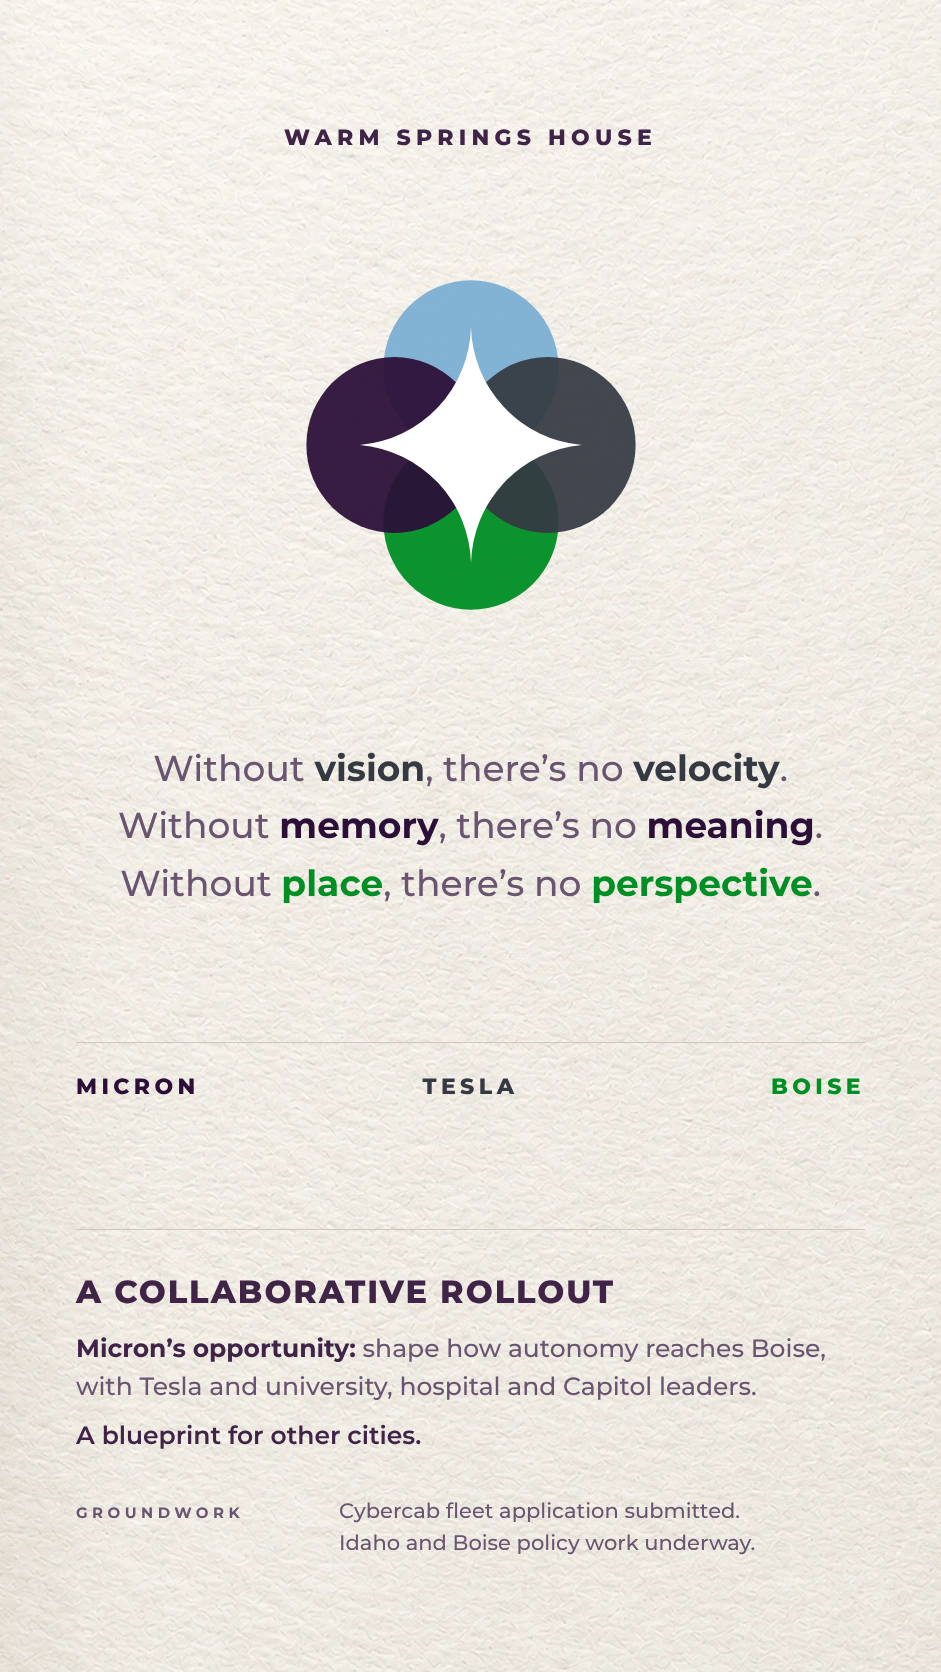
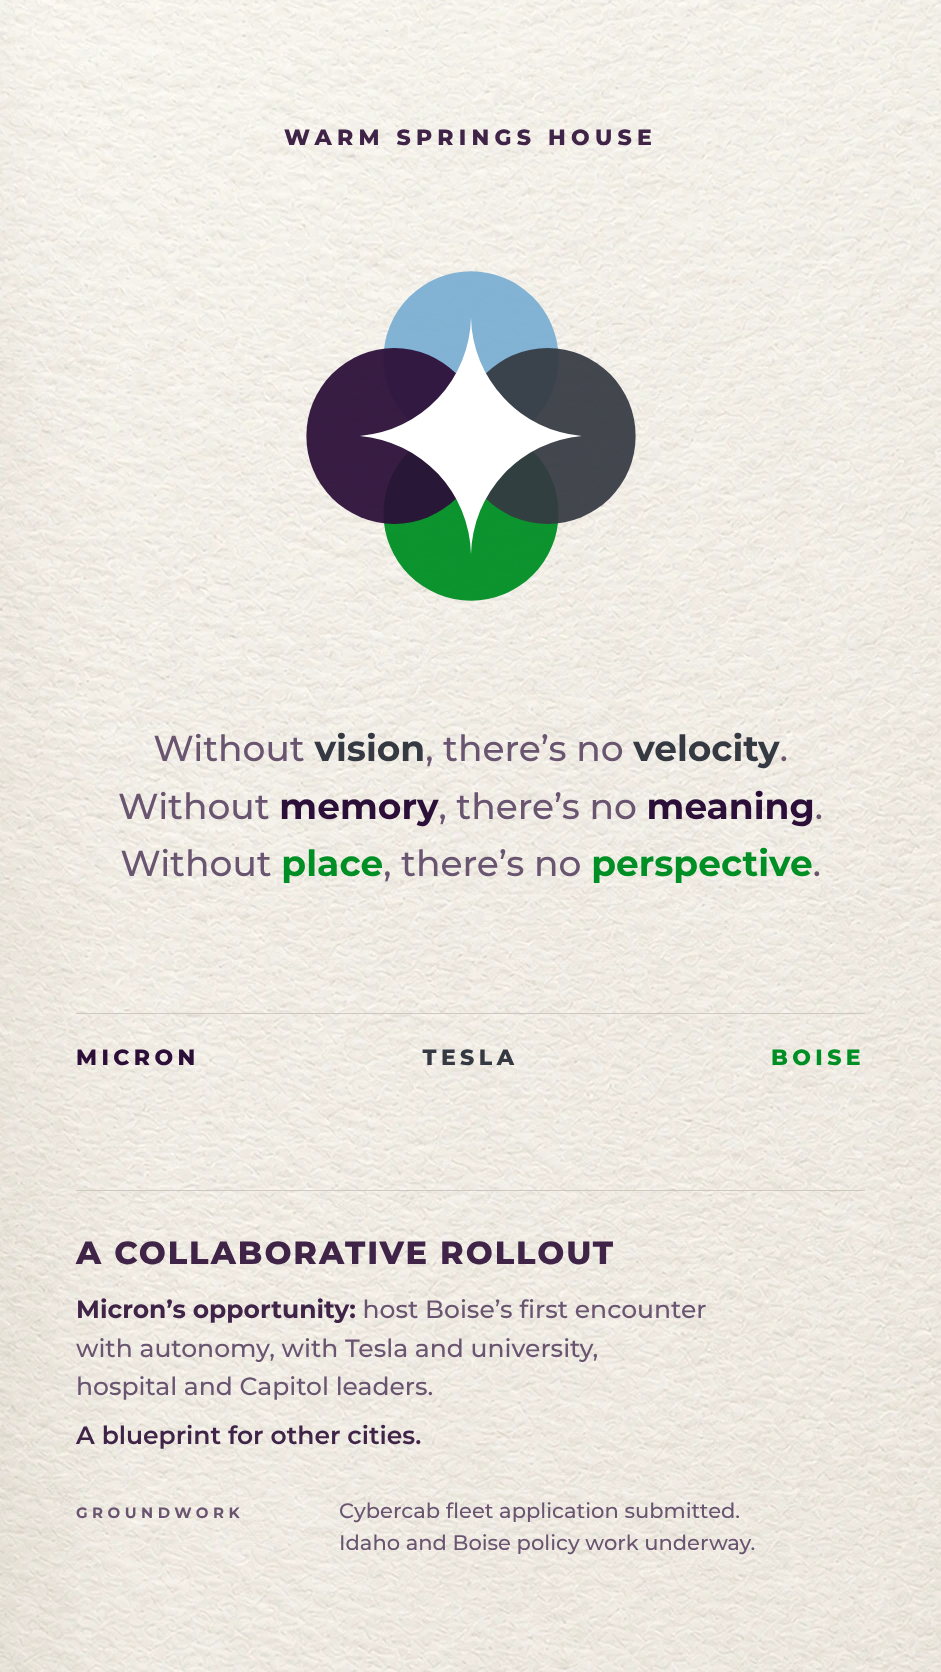
Card 5: "host Boise's first encounter with autonomy"
Replaces "shape how autonomy reaches Boise" in the master copy (Micron and
[COMPANY] sets) and in all Card 5 versions; version B saved as final.

Claude-Session: https://claude.ai/code/session_018mjyHLtRipED1pdLKidqkG

diff --git a/mockups/card5/clean/card5-FINAL.html b/mockups/card5/clean/card5-FINAL.html
@@ -1,0 +1,26 @@
+<!doctype html><html><head><meta charset="utf-8">
+<link href="https://fonts.googleapis.com/css2?family=Montserrat:wght@400;500;600;700;800&display=swap" rel="stylesheet">
+<style>html,body{margin:0;background:#fff}
+.card{position:relative;width:941px;height:1672px;overflow:hidden;background:#f4f3ef url(paper.webp) center/cover no-repeat;font-family:Montserrat,Arial,sans-serif;color:#3f2448}
+.col{position:absolute;left:76px;right:76px;top:124px;bottom:112px;display:flex;flex-direction:column;justify-content:space-between}
+.c{text-align:center}
+.brand{font-size:22px;letter-spacing:.24em;font-weight:800;text-transform:uppercase}
+.st{font-size:36px;line-height:1.6;font-weight:500;color:#6a5571}
+.st b{font-weight:700}
+.pt{font-size:22px;letter-spacing:.2em;font-weight:800;text-transform:uppercase}
+.lab{font-size:15px;letter-spacing:.3em;font-weight:700;text-transform:uppercase;color:#6a5571}
+.h{font-size:32px;line-height:1.15;letter-spacing:.06em;font-weight:800;text-transform:uppercase}
+.p{font-size:25px;line-height:1.55;font-weight:500;color:#6a5571}
+.p b{font-weight:700;color:#3f2448}
+.sm{font-size:21px;line-height:1.55;font-weight:500;color:#6a5571}
+.rule{border-top:1px solid #cfc8be}
+</style></head><body><div class="card"><div class="col"><div class="c brand">Warm Springs House</div>
+<div style="display:flex;justify-content:center"><img src="mark.svg" style="width:330px;height:330px;display:block"></div>
+<div class="c st">Without <b style="color:#353942">vision</b>, there&#8217;s no <b style="color:#353942">velocity</b>.<br>Without <b style="color:#2c0f38">memory</b>, there&#8217;s no <b style="color:#2c0f38">meaning</b>.<br>Without <b style="color:#008f25">place</b>, there&#8217;s no <b style="color:#008f25">perspective</b>.</div>
+<div class="rule" style="padding-top:30px;display:grid;grid-template-columns:1fr 1fr 1fr">
+<div class="pt" style="color:#2c0f38">Micron</div><div class="pt c" style="color:#353942">Tesla</div><div class="pt" style="color:#008f25;text-align:right">Boise</div></div><div class="rule c" style="padding-top:44px">
+<div class="h">A collaborative rollout</div>
+<div class="p" style="margin-top:18px"><b>Micron&#8217;s opportunity:</b> host Boise&#8217;s first encounter<br>with autonomy, with Tesla and university,<br>hospital and Capitol leaders.</div>
+<div class="p" style="margin-top:10px;color:#3f2448;font-weight:600">A blueprint for other cities.</div>
+<div class="lab" style="margin-top:40px">Groundwork</div>
+<div class="sm" style="margin-top:10px">Cybercab fleet application submitted.<br>Idaho and Boise policy work underway.</div></div></div></div></body></html>

diff --git a/mockups/card5/clean/card5-clean-C.html b/mockups/card5/clean/card5-clean-C.html
@@ -21,5 +21,5 @@
 <div class="pt" style="color:#2c0f38">Micron</div><div class="pt c" style="color:#353942">Tesla</div><div class="pt" style="color:#008f25;text-align:right">Boise</div></div><div class="rule" style="padding-top:44px">
 <div class="h">A collaborative rollout</div>
 <div style="margin-top:30px;display:grid;grid-template-columns:1fr 2fr;row-gap:30px;align-items:baseline">
-<div class="lab">Micron&#8217;s<br>opportunity</div><div class="p" style="font-size:24px">Shape how autonomy reaches Boise, with Tesla and university, hospital and Capitol leaders. <span style="color:#3f2448;font-weight:600">A blueprint for other cities.</span></div>
+<div class="lab">Micron&#8217;s<br>opportunity</div><div class="p" style="font-size:24px">Host Boise&#8217;s first encounter with autonomy, with Tesla and university, hospital and Capitol leaders. <span style="color:#3f2448;font-weight:600">A blueprint for other cities.</span></div>
 <div class="lab">Groundwork</div><div class="sm">Cybercab fleet application submitted.<br>Idaho and Boise policy work underway.</div></div></div></div></div></body></html>

diff --git a/mockups/card5/clean/card5-clean-A.html b/mockups/card5/clean/card5-clean-A.html
@@ -20,6 +20,6 @@
 <div class="rule" style="padding-top:30px;display:grid;grid-template-columns:1fr 1fr 1fr">
 <div class="pt" style="color:#2c0f38">Micron</div><div class="pt c" style="color:#353942">Tesla</div><div class="pt" style="color:#008f25;text-align:right">Boise</div></div><div class="rule" style="padding-top:44px">
 <div class="h">A collaborative rollout</div>
-<div class="p" style="margin-top:18px"><b>Micron&#8217;s opportunity:</b> shape how autonomy reaches Boise,<br>with Tesla and university, hospital and Capitol leaders.</div>
+<div class="p" style="margin-top:18px"><b>Micron&#8217;s opportunity:</b> host Boise&#8217;s first encounter<br>with autonomy, with Tesla and university,<br>hospital and Capitol leaders.</div>
 <div class="p" style="margin-top:10px;color:#3f2448;font-weight:600">A blueprint for other cities.</div>
 <div style="margin-top:40px;display:grid;grid-template-columns:1fr 2fr;align-items:baseline"><div class="lab">Groundwork</div><div class="sm">Cybercab fleet application submitted.<br>Idaho and Boise policy work underway.</div></div></div></div></div></body></html>

diff --git a/mockups/card5/clean/card5-clean-B.html b/mockups/card5/clean/card5-clean-B.html
@@ -20,7 +20,7 @@
 <div class="rule" style="padding-top:30px;display:grid;grid-template-columns:1fr 1fr 1fr">
 <div class="pt" style="color:#2c0f38">Micron</div><div class="pt c" style="color:#353942">Tesla</div><div class="pt" style="color:#008f25;text-align:right">Boise</div></div><div class="rule c" style="padding-top:44px">
 <div class="h">A collaborative rollout</div>
-<div class="p" style="margin-top:18px"><b>Micron&#8217;s opportunity:</b> shape how autonomy reaches Boise,<br>with Tesla and university, hospital and Capitol leaders.</div>
+<div class="p" style="margin-top:18px"><b>Micron&#8217;s opportunity:</b> host Boise&#8217;s first encounter<br>with autonomy, with Tesla and university,<br>hospital and Capitol leaders.</div>
 <div class="p" style="margin-top:10px;color:#3f2448;font-weight:600">A blueprint for other cities.</div>
 <div class="lab" style="margin-top:40px">Groundwork</div>
 <div class="sm" style="margin-top:10px">Cybercab fleet application submitted.<br>Idaho and Boise policy work underway.</div></div></div></div></body></html>

diff --git a/mockups/card5/clean/build.py b/mockups/card5/clean/build.py
@@ -25,7 +25,7 @@ TOP=f'''<div class="c brand">Warm Springs House</div>
 <div class="c st">{lines}</div>
 <div class="rule" style="padding-top:30px;display:grid;grid-template-columns:1fr 1fr 1fr">
 <div class="pt" style="color:{M}">Micron</div><div class="pt c" style="color:{T}">Tesla</div><div class="pt" style="color:{B};text-align:right">Boise</div></div>'''
-OPP='<b>Micron&#8217;s opportunity:</b> shape how autonomy reaches Boise,<br>with Tesla and university, hospital and Capitol leaders.'
+OPP='<b>Micron&#8217;s opportunity:</b> host Boise&#8217;s first encounter<br>with autonomy, with Tesla and university,<br>hospital and Capitol leaders.'
 GW='Cybercab fleet application submitted.<br>Idaho and Boise policy work underway.'
 BOTTOM={
  # A · one left edge, two type sizes, blueprint as a sentence, groundwork on the partner grid
@@ -45,7 +45,7 @@ BOTTOM={
  'C': f'''<div class="rule" style="padding-top:44px">
 <div class="h">A collaborative rollout</div>
 <div style="margin-top:30px;display:grid;grid-template-columns:1fr 2fr;row-gap:30px;align-items:baseline">
-<div class="lab">Micron&#8217;s<br>opportunity</div><div class="p" style="font-size:24px">Shape how autonomy reaches Boise, with Tesla and university, hospital and Capitol leaders. <span style="color:{P};font-weight:600">A blueprint for other cities.</span></div>
+<div class="lab">Micron&#8217;s<br>opportunity</div><div class="p" style="font-size:24px">Host Boise&#8217;s first encounter with autonomy, with Tesla and university, hospital and Capitol leaders. <span style="color:{P};font-weight:600">A blueprint for other cities.</span></div>
 <div class="lab">Groundwork</div><div class="sm">{GW}</div></div></div>''',
 }
 for k,b in BOTTOM.items(): open(f'card5-clean-{k}.html','w').write(HEAD+TOP+b+END)
